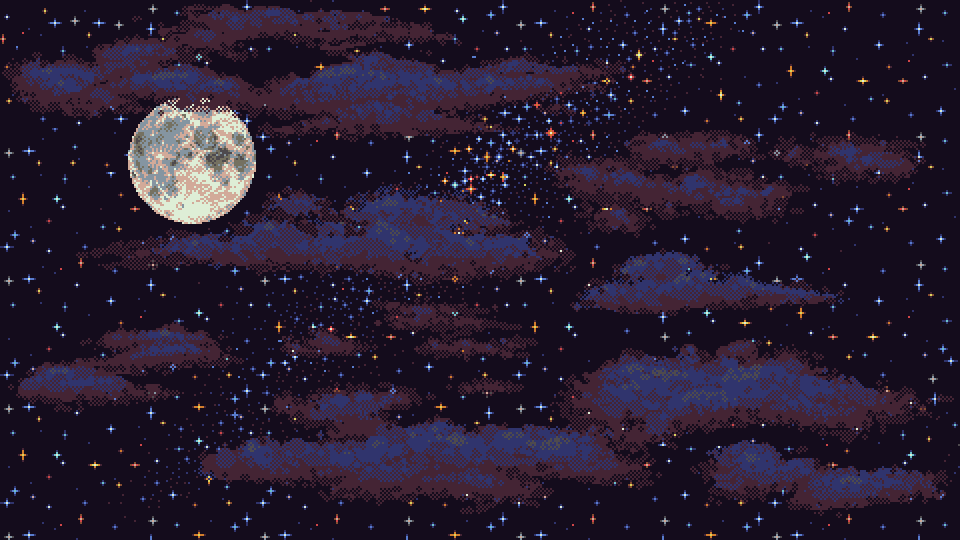
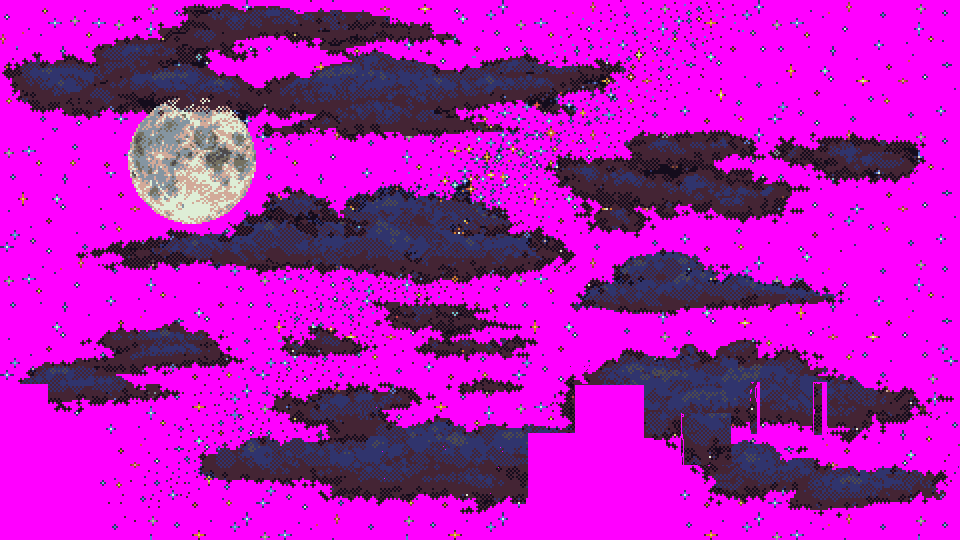
new menu screen

diff --git a/src/Maps/TitleScreenMap.java b/src/Maps/TitleScreenMap.java
@@ -19,25 +19,27 @@ import Utils.Point;
 // Represents the map that is used as a background for the main menu and credits menu screen
 public class TitleScreenMap extends Map {
 
+    private Sprite cat;
+    private Sprite background;
 
     public TitleScreenMap() {
         super("title_screen_map.txt", new CommonTileset());
-    }
-
-     @Override
-    public ArrayList<NPC> loadNPCs() 
-    {
-        ArrayList<NPC> npcs = new ArrayList<>();
-
-        NightSky night = new NightSky(1, getMapTile(1,1).getLocation());
-        npcs.add(night);
-
-        return npcs;
+        Point catLocation = getMapTile(9, 7).getLocation().subtractX(6).subtractY(7);
+        Point backgroundLocation = getMapTile(2,0).getLocation().subtractX(1).subtractY(2);
+        cat = new Sprite(ImageLoader.loadSubImage("SerenaPurple.png", Colors.MAGENTA, 0, 0, 86, 99));
+        cat.setScale(2);
+        cat.setImageEffect(ImageEffect.FLIP_HORIZONTAL);
+        cat.setLocation(catLocation.x, catLocation.y);
+        background = new Sprite(ImageLoader.loadSubImage("nightsky.png", Colors.MAGENTA, 0, 0, 623, 525));
+        background.setScale(1);
+        background.setImageEffect(ImageEffect.FLIP_HORIZONTAL);
+        background.setLocation(backgroundLocation.x, backgroundLocation.y);
     }
 
     @Override
     public void draw(GraphicsHandler graphicsHandler) {
         super.draw(graphicsHandler);
-        
+        background.draw(graphicsHandler);
+        // cat.draw(graphicsHandler);
     }
 }
